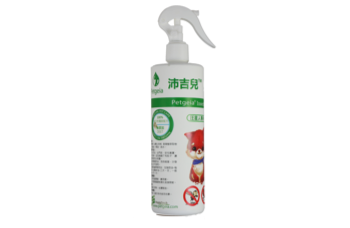
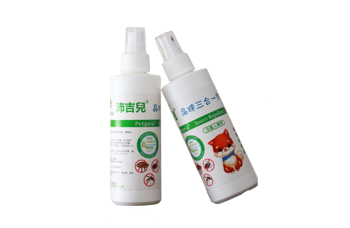
change store contents

Changed region(s): [[0.3143, 0.0, 0.7429, 0.9518]]

diff --git a/store.html b/store.html
@@ -123,15 +123,15 @@
 
                         <h5 class="store-product">寵物尿液健康試片</h5>
                         <p>隨手檢測，守護毛小孩的一生</p>
-                        <h3 class="store-price">NT$ 500<br><br></h3>
+                        <h3 class="store-price">原價 NT$ 500<br><br></h3>
 
                     </div>
 
                 </div>
                 <div class="col-md-6 col-sm-6 row-store">
                     <div class="div-inline btn-feature-store"><a href="http://www.pcstore.com.tw/petgeia26311/M31739999.htm" class="btn-default-store" target="_blank">PChome</a></div>
-                    <div class="div-inline btn-feature-store"><a href="" class="btn-default-store" target="_blank">蝦皮商城</a></div>
-                    <div class="div-inline btn-feature-store"><a href="" class="btn-default-store" target="_blank">Line Store</a></div>
+                    <div class="div-inline btn-feature-store"><a href="https://shopee.tw/%E6%B2%9B%E5%90%89%E5%85%92-%E5%AF%B5%E7%89%A9%E5%B0%BF%E6%B6%B2%E5%81%A5%E5%BA%B7%E8%A9%A6%E7%89%87-%E7%8B%97%E8%B2%93%E5%85%94%E8%82%9D%E8%85%8E%E6%B3%8C%E5%B0%BF%E9%81%93%E6%AA%A2%E6%B8%AC%E8%A9%A6%E7%B4%99%E2%98%85%E5%B0%BF%E7%B3%96%E5%B0%BF%E8%9B%8B%E7%99%BD%E5%B0%BF%E9%85%AE%E6%BD%9B%E8%A1%80%E9%85%B8%E9%B9%BC%E7%AD%8910%E9%A0%85%E2%98%85%E6%90%AD%E9%85%8DApp%E7%B4%80%E9%8C%84%E2%98%85-i.29963096.404090038" class="btn-default-store" target="_blank">蝦皮商城</a></div>
+                    <div class="div-inline btn-feature-store"><a href="https://ezstore.line.me/ghw1127e/shop/products/317719556" class="btn-default-store" target="_blank">Line Store</a></div>
                 </div>
 
             </div>
@@ -144,16 +144,16 @@
                 </div>
                 <div class="product-content col-md-6 col-sm-6">
                     <div class="about-text">
-                        <h5 class="store-product">蚊不咬 200 ml</h5>
+                        <h5 class="store-product">天然三合一防蟲噴劑-日常一般型 (犬用) 200 ml</h5>
                         <p>給毛小孩健康安心的戶外生活</p>
-                        <h3 class="store-price">NT$ 299<br><br></h3>
+                        <h3 class="store-price">原價 NT$ 249<br><br></h3>
 
                     </div>
 
                 </div>
                 <div class="col-md-6 col-sm-6 row-store">
                     <div class="div-inline btn-feature-store"><a href="" class="btn-default-store" target="_blank">PChome</a></div>
-                    <div class="div-inline btn-feature-store"><a href="https://shopee.tw/%E6%B2%9B%E5%90%89%E5%85%92-%E8%9A%8A%E4%B8%8D%E5%92%AC-i.29963096.404106469" class="btn-default-store" target="_blank">蝦皮商城</a></div>
+                    <div class="div-inline btn-feature-store"><a href="https://shopee.tw/%E6%B2%9B%E5%90%89%E5%85%92-%E5%A4%A9%E7%84%B6%E4%B8%89%E5%90%88%E4%B8%80%E9%98%B2%E8%9F%B2%E5%99%B4%E5%8A%91(%E5%AE%89%E5%85%A8%E7%84%A1%E6%AF%92%E9%98%B2%E8%9F%B2%E6%B6%B2%EF%BC%8C%E9%87%9D%E5%B0%8D%E8%B7%B3%E8%9A%A4%E3%80%81%E5%A3%81%E8%9D%A8%E3%80%81%E8%9A%8A%E5%AD%90%E2%98%85%E7%8A%AC%E7%94%A8%E2%98%85)-i.29963096.621677988" class="btn-default-store" target="_blank">蝦皮商城</a></div>
                     <div class="div-inline btn-feature-store"><a href="" class="btn-default-store" target="_blank">Line Store</a></div>
                 </div>
 
@@ -167,9 +167,9 @@
                 </div>
                 <div class="product-content col-md-6 col-sm-6">
                     <div class="about-text">
-                        <h5 class="store-product">蚊不咬 500 ml</h5>
+                        <h5 class="store-product">晶球三合一防蟲噴劑-強效持久型 (犬用) 200 ml</h5>
                         <p>給毛小孩健康安心的戶外生活</p>
-                        <h3 class="store-price">NT$ 500<br><br></h3>
+                        <h3 class="store-price">原價 NT$ 399<br><br></h3>
 
                     </div>
 
@@ -246,7 +246,7 @@
                             <li class="list-inline-item">
                                 <a href="team.html">我們的團隊</a>
                             </li>
-                            <li><a href="#" data-placement="top" title="Facebook"><i class="fa fa-facebook"></i></a></li>
+
 
                         </ul>
                     </div>
@@ -281,11 +281,9 @@
             event.preventDefault();
             $(this).ekkoLightbox();
         });
-
     </script>
     <script>
         new WOW().init();
-
     </script>
 </body>
 

diff --git a/en/store.html b/en/store.html
@@ -123,15 +123,15 @@
 
                         <h5 class="store-product">Pet urinary health strip</h5>
                         <p>Easy test for guarding furry friends</p>
-                        <h3 class="store-price">NT$ 500<br><br></h3>
+                        <h3 class="store-price">Orig. NT$ 500<br><br></h3>
 
                     </div>
 
                 </div>
                 <div class="col-md-6 col-sm-6 row-store">
                     <div class="div-inline btn-feature-store"><a href="http://www.pcstore.com.tw/petgeia26311/M31739999.htm" class="btn-default-store" target="_blank">PChome</a></div>
-                    <div class="div-inline btn-feature-store"><a href="" class="btn-default-store" target="_blank">Shopee</a></div>
-                    <div class="div-inline btn-feature-store"><a href="" class="btn-default-store" target="_blank">Line Store</a></div>
+                    <div class="div-inline btn-feature-store"><a href="https://shopee.tw/%E6%B2%9B%E5%90%89%E5%85%92-%E5%AF%B5%E7%89%A9%E5%B0%BF%E6%B6%B2%E5%81%A5%E5%BA%B7%E8%A9%A6%E7%89%87-%E7%8B%97%E8%B2%93%E5%85%94%E8%82%9D%E8%85%8E%E6%B3%8C%E5%B0%BF%E9%81%93%E6%AA%A2%E6%B8%AC%E8%A9%A6%E7%B4%99%E2%98%85%E5%B0%BF%E7%B3%96%E5%B0%BF%E8%9B%8B%E7%99%BD%E5%B0%BF%E9%85%AE%E6%BD%9B%E8%A1%80%E9%85%B8%E9%B9%BC%E7%AD%8910%E9%A0%85%E2%98%85%E6%90%AD%E9%85%8DApp%E7%B4%80%E9%8C%84%E2%98%85-i.29963096.404090038" class="btn-default-store" target="_blank">Shopee</a></div>
+                    <div class="div-inline btn-feature-store"><a href="https://ezstore.line.me/ghw1127e/shop/products/317719556" class="btn-default-store" target="_blank">Line Store</a></div>
                 </div>
 
             </div>
@@ -146,14 +146,14 @@
                     <div class="about-text">
                         <h5 class="store-product">Insect Repellent (for dog) - general type 200 ml</h5>
                         <p>Gives comfortable outdoor life to furry friends </p>
-                        <h3 class="store-price">NT$ 299<br><br></h3>
+                        <h3 class="store-price">Orig. NT$ 249<br><br></h3>
 
                     </div>
 
                 </div>
                 <div class="col-md-6 col-sm-6 row-store">
                     <div class="div-inline btn-feature-store"><a href="" class="btn-default-store" target="_blank">PChome</a></div>
-                    <div class="div-inline btn-feature-store"><a href="https://shopee.tw/%E6%B2%9B%E5%90%89%E5%85%92-%E8%9A%8A%E4%B8%8D%E5%92%AC-i.29963096.404106469" class="btn-default-store" target="_blank">Shopee</a></div>
+                    <div class="div-inline btn-feature-store"><a href="https://shopee.tw/%E6%B2%9B%E5%90%89%E5%85%92-%E5%A4%A9%E7%84%B6%E4%B8%89%E5%90%88%E4%B8%80%E9%98%B2%E8%9F%B2%E5%99%B4%E5%8A%91(%E5%AE%89%E5%85%A8%E7%84%A1%E6%AF%92%E9%98%B2%E8%9F%B2%E6%B6%B2%EF%BC%8C%E9%87%9D%E5%B0%8D%E8%B7%B3%E8%9A%A4%E3%80%81%E5%A3%81%E8%9D%A8%E3%80%81%E8%9A%8A%E5%AD%90%E2%98%85%E7%8A%AC%E7%94%A8%E2%98%85)-i.29963096.621677988" class="btn-default-store" target="_blank">Shopee</a></div>
                     <div class="div-inline btn-feature-store"><a href="" class="btn-default-store" target="_blank">Line Store</a></div>
                 </div>
 
@@ -169,7 +169,7 @@
                     <div class="about-text">
                         <h5 class="store-product">Insect Repellent (for dog) - long-lasting type 200 ml</h5>
                         <p>Gives comfortable outdoor life to furry friends</p>
-                        <h3 class="store-price">NT$ 500<br><br></h3>
+                        <h3 class="store-price">Orig. NT$ 399<br><br></h3>
 
                     </div>
 
@@ -246,7 +246,7 @@
                             <li class="list-inline-item">
                                 <a href="team.html">Our team</a>
                             </li>
-                            <li><a href="#" data-placement="top" title="Facebook"><i class="fa fa-facebook"></i></a></li>
+
 
                         </ul>
                     </div>

diff --git a/en/index.html b/en/index.html
@@ -66,7 +66,7 @@
                 <div class="intro-box">
                     <div class="intro">
                         <h1 class="wow fadeInLeft">
-                            Guard every family member’s health<br>by professional and effective ways<br><br>
+                            Guard every family member’s health by professional and effective ways<br><br>
                         </h1>
                         <div class="head-btn wow fadeInLeft">
 
@@ -98,7 +98,7 @@
                     <p>We mainly focus on innovating home-friendly self-analytical products and aim to offer you a unique healthcare experience to guard our loved ones’health.
                     </p>
 
-                    <div class="btn-section"><a href="" class="btn-default">More details</a></div>
+                    <div class="btn-section"><a href="idea.html" class="btn-default">More details</a></div>
 
                 </div>
 
@@ -189,7 +189,7 @@
                         <h2><br><br>Our team</h2>
                         <h5>Professional biomedical PhDs and well-experienced consultants</h5>
                         <p>Founding team are from National Tsing Hua University and we have many well-experienced medical doctors as our consultants to provide you professional home-friendly self-analytical products.</p>
-                        <div class="btn-section"><a href="" class="btn-default">More details</a></div>
+                        <div class="btn-section"><a href="team.html" class="btn-default">More details</a></div>
                     </div>
                     <br/>
                 </div>
@@ -266,7 +266,6 @@
                             <li class="list-inline-item">
                                 <a href="team.html">Our team</a>
                             </li>
-                            <li><a href="#" data-placement="top" title="Facebook"><i class="fa fa-facebook"></i></a></li>
 
                         </ul>
                     </div>

diff --git a/brands.html b/brands.html
@@ -270,7 +270,7 @@
                             <li class="list-inline-item">
                                 <a href="team.html">我們的團隊</a>
                             </li>
-                            <li><a href="#" data-placement="top" title="Facebook"><i class="fa fa-facebook"></i></a></li>
+
 
                         </ul>
                     </div>
@@ -304,11 +304,9 @@
             event.preventDefault();
             $(this).ekkoLightbox();
         });
-
     </script>
     <script>
         new WOW().init();
-
     </script>
 </body>
 

diff --git a/index.html b/index.html
@@ -266,7 +266,7 @@
                             <li class="list-inline-item">
                                 <a href="team.html">我們的團隊</a>
                             </li>
-                            <li><a href="#" data-placement="top" title="Facebook"><i class="fa fa-facebook"></i></a></li>
+
 
                         </ul>
                     </div>
@@ -301,11 +301,9 @@
             event.preventDefault();
             $(this).ekkoLightbox();
         });
-
     </script>
     <script>
         new WOW().init();
-
     </script>
 </body>
 

diff --git a/idea.html b/idea.html
@@ -356,7 +356,7 @@
                             <li class="list-inline-item">
                                 <a href="team.html">我們的團隊</a>
                             </li>
-                            <li><a href="#" data-placement="top" title="Facebook"><i class="fa fa-facebook"></i></a></li>
+
 
                         </ul>
                     </div>

diff --git a/team.html b/team.html
@@ -363,7 +363,7 @@
                             <li class="list-inline-item">
                                 <a href="team.html">我們的團隊</a>
                             </li>
-                            <li><a href="#" data-placement="top" title="Facebook"><i class="fa fa-facebook"></i></a></li>
+
 
                         </ul>
                     </div>

diff --git a/en/brands.html b/en/brands.html
@@ -271,7 +271,7 @@
                             <li class="list-inline-item">
                                 <a href="team.html">Our team</a>
                             </li>
-                            <li><a href="#" data-placement="top" title="Facebook"><i class="fa fa-facebook"></i></a></li>
+
 
                         </ul>
                     </div>

diff --git a/en/idea.html b/en/idea.html
@@ -357,7 +357,7 @@
                             <li class="list-inline-item">
                                 <a href="team.html">Our team</a>
                             </li>
-                            <li><a href="#" data-placement="top" title="Facebook"><i class="fa fa-facebook"></i></a></li>
+
 
                         </ul>
                     </div>

diff --git a/en/team.html b/en/team.html
@@ -363,7 +363,7 @@
                             <li class="list-inline-item">
                                 <a href="team.html">Our team</a>
                             </li>
-                            <li><a href="#" data-placement="top" title="Facebook"><i class="fa fa-facebook"></i></a></li>
+
 
                         </ul>
                     </div>
